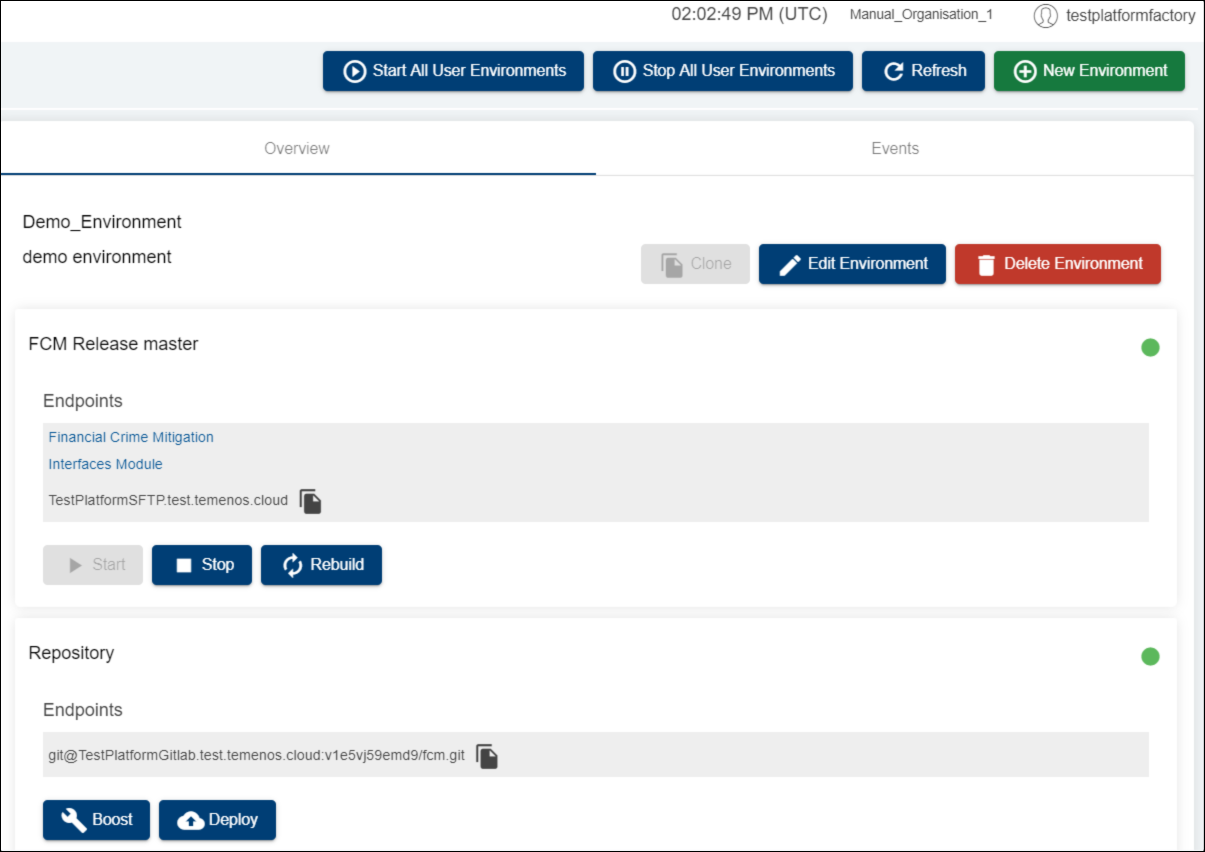
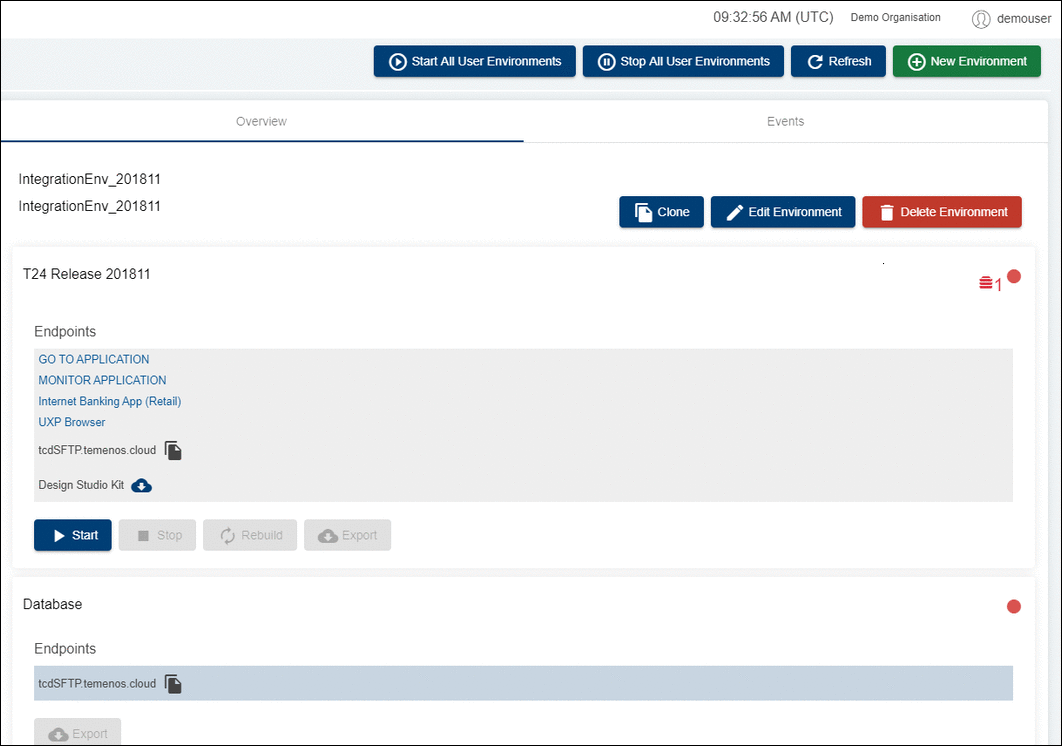
added

diff --git a/docfx_project/home/techguides/environment-basic-operations.md b/docfx_project/home/techguides/environment-basic-operations.md
@@ -2,7 +2,7 @@
 
 After logging to the portal, go to the Environments tab on the left menu > you will see available two buttons: Refresh and New Environment.
 
-After creating an environment, there are several actions (operations) that can be done via the available buttons: clone, edit, delete, start, stop, rebuild, export the database, boost and deploy the repository and also using the endpoints related to T24, the database or to the repository.
+After creating an environment, there are several actions (operations) that can be done via the available buttons: clone, edit, delete, start, stop, rebuild, export the database and deploy the repository and also using the endpoints related to T24, the database or to the repository.
 <br>
  
 ![buttons](./images/buttons-all.png)
@@ -10,6 +10,14 @@ After creating an environment, there are several actions (operations) that can b
 <br>
 
 ## Environment buttons: ##
+
+![start](./images/start-all-user-env.png) **Start All User Environments** button:
+
+- Use this button to only start all user environments.
+
+![start](./images/stop-all-user-env.png) **Stop All User Environments** button:
+
+- Use this button to only stop all user environments. Not that this action will not stop factory environments.
 
 ![start](./images/button-refresh.png) **Refreshing** the page:
 
@@ -109,12 +117,6 @@ By clicking the "Export database" button a zip file will be generated in the sft
 ## Repository section - available actions ##
 
 ### <span style="color:orange;font-weight:1000;">**Buttons**:</span>  ###
-
-![boost](./images/button-boost.png) **Boosting** 
-
-- Used to apply the changes made to the environments' repository (you can modify the infra-templates, the playbooks or the roles).
-
-<br>
 
 ![deploy](./images/button-deploy.png)**Deploying**
 
